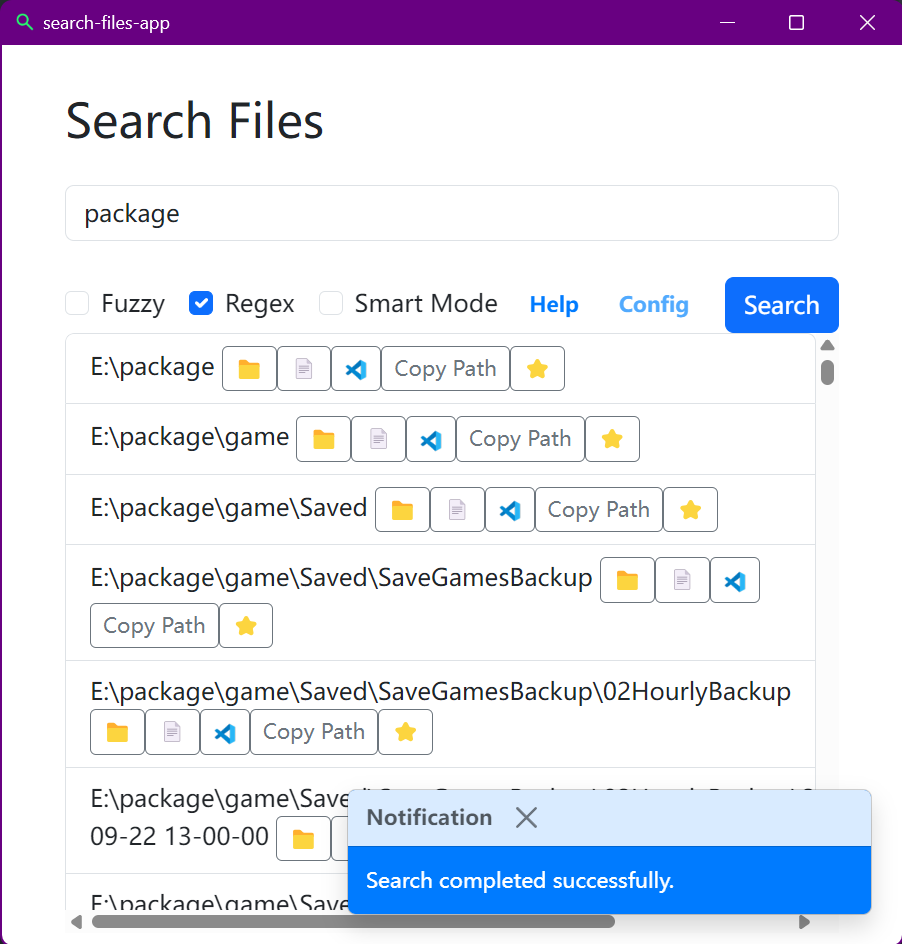
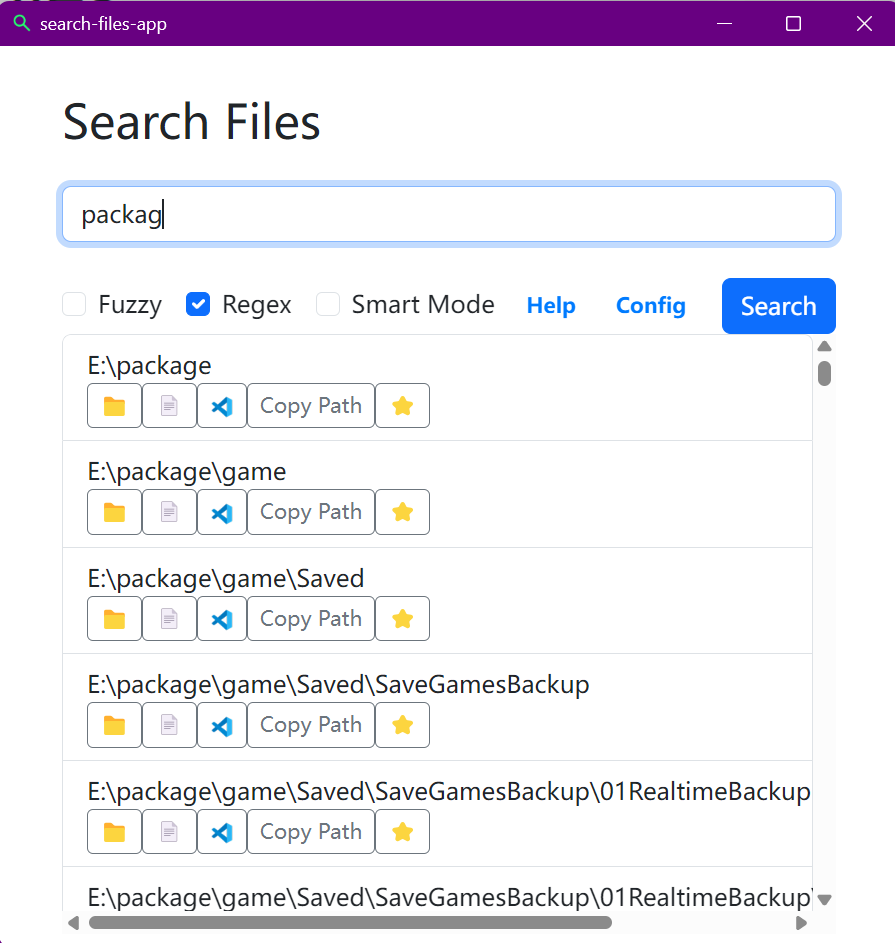
0.15.2 更新Readme

diff --git a/README.md b/README.md
@@ -7,11 +7,11 @@
 # 操作说明
 
 - 搜索模式选项说明
-  - `Fuzzy`: 是否模糊匹配, 默认不开启
-  - `Regex`: 是否正则匹配搜索, 默认开启
+  - `Fuzzy`: 是否模糊匹配, 默认不开启, 该模式随输入框键入自动搜索
+  - `Regex`: 是否正则匹配搜索, 默认开启, 该模式随输入框键入自动搜索
     - 为了简化使用, 让不懂正则表达式的朋友们的操作, 默认情况下会在输入的正则表达式前后加入 `.*`
     - 例如输入 `steamapps`搜索等同于输入 `.*steamapps.*`搜索, 可以输入 `steamapps$`显式去除该默认行为
-  - `Smart Mode`: 会搜索缓存路径上的热点文件夹
+  - `Smart Mode`: 会搜索缓存路径上的热点文件夹, 该模式消耗更多系统资源, 因此不随输入框键入自动搜索, 需要手动点击 `button`或键入 `enter`
     - 若存在 `/a/b/c`缓存, 则会在热点文件夹 `b`, `a`中搜索目标, 此模式耗时较长
 - 搜索结果操作
   - 打开文件或文件夹、`VSCode`打开
@@ -94,11 +94,12 @@ log_level = "trace" # 日志级别
 - [X] 实现 `app`单例, 避免重复打开
 - [X] 前端后端使用更高效的 `IPC`通信, 而不占用本地3000端口(直接使用 `tauri`自带的 `ipc`)
 - [X] 支持本地日志输出和轮转
+- [X] 随输入框键入自动搜索
 - [ ] 支持配置文件热重载
 - [ ] 支持剥离关系型数据库 `sqlite3`存储, 创建自定义的文件格式存储
 - [ ] 配置文件支持自定义数据库(目前使用 `sqlite3`)
 - [ ] 搜索项支持系统级别的更多操作(仅 `windows`)
-- [ ] 客户端界面优化: 设定默认聚焦组件 && `table` 切换 && `Enter `默认行为
+- [X] 客户端界面优化: 设定默认聚焦组件 && `table` 切换 && `Enter `默认行为
 
 # 安装和开发
 
